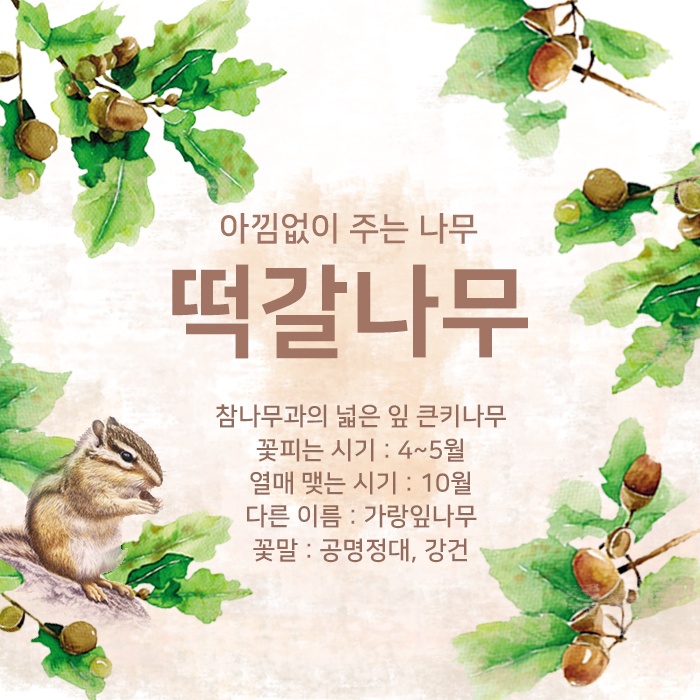
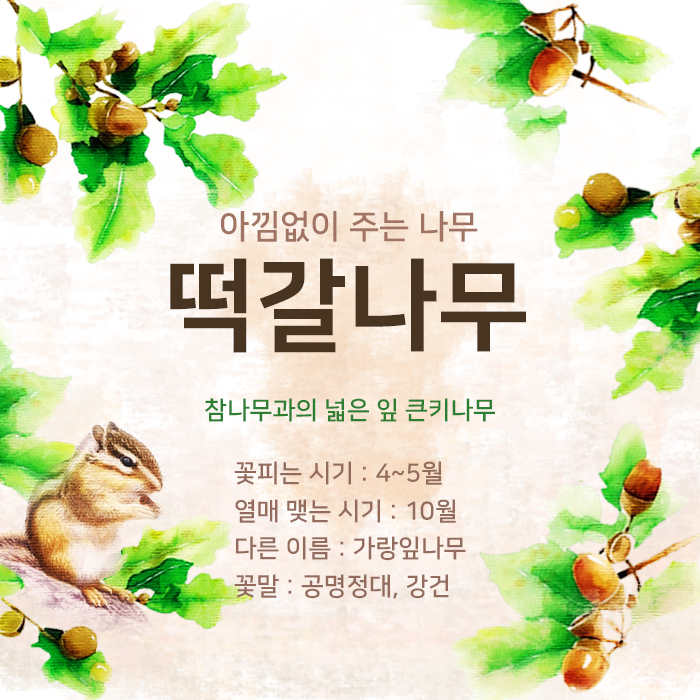
03

diff --git a/index_03.html b/index_03.html
@@ -18,8 +18,8 @@
                 data-description=""
             >
             <img 
-                src="images/03/03_02.jpg",
-                data-big="images/03/03_02.jpg"
+                src="images/03/03_02.gif",
+                data-big="images/03/03_02.gif"
                 data-title=""
                 data-description=""
             >
@@ -42,8 +42,8 @@
                 data-description=""
             >
             <img 
-                src="images/03/03_06.jpg",
-                data-big="images/03/03_06.jpg"
+                src="images/03/03_06.gif",
+                data-big="images/03/03_06.gif"
                 data-title=""
                 data-description=""
             >
@@ -74,13 +74,11 @@
                     동그란 것, 길쭉한 것, 반질반질한 것, 
                     투박한 것, 털모자 쓴 것, 빵모자 쓴 것…
                     그중 털모자를 쓴 동그란 도토리를 찾아 
-                    주위의 나무를 살펴보세요.
-                    </p>
+                    주위의 나무를 살펴보세요.</p>
             <p>나뭇잎이 크고, 가장자리가 물결 모양인 나무!
                     잎 뒷면에 짧은 털이 촘촘하게 나 있는 
-                    나무를 찾았나요?
-                    그 나무가 
-                    바로 떡갈나무랍니다.</p>
+                    나무를 찾았나요?</p>
+            <p>그 나무가 바로 떡갈나무랍니다.</p>
             <p>잎 뒷면에 털이 난 나무</p>
             <h3>떡을 싸서 먹는다고 떡갈나무</h3>
                 <p>옛날에는 어린 떡갈나무 잎에 
@@ -88,48 +86,42 @@
                         ‘떡갈나무’라는 이름이 붙여졌답니다.</p>
             <h3>떡갈나무 생김새</h3>
                 <p>꽃 - 4~5월에 잎과 함께 펴요.
-                        암꽃과 수꽃이 한 나무에 피는 
-                        암수한그루에요.
-                        </p>
+                    암꽃과 수꽃이 한 나무에 피는 
+                    암수한그루에요.</p>
                 <p>잎 - 참나무 중 잎이 가장 크고 두꺼워요.
-                        잎자루가 짧고 잎 가장자리는 
-                        큰 물결 모양이에요.
-                        뒷면에는 갈색의 털이 촘촘하게 나 있어요.
-                        </p>
+                    잎자루가 짧고 잎 가장자리는 
+                    큰 물결 모양이에요.
+                    뒷면에는 갈색의 털이 촘촘하게 나 있어요.</p>
                 <p>열매 - 열매인 도토리는 10월에 영글어요.
-                        열매를 감싼 깍쟁이는 짙은 갈색으로 
-                        줄 모양의 포에 싸여 있어요.</p>
+                    열매를 감싼 깍쟁이는 짙은 갈색으로 
+                    줄 모양의 포에 싸여 있어요.</p>
             <h3>다람쥐가 좋아하는
                     떡갈나무 열매</h3>
                 <p>떡갈나무는 산기슭 양지바른 곳에서 자라는 
-                        우리나라 토종나무에요. 
-                        참나무 중에서 잎이 가장 커요.
-                        열매인 도토리를 다람쥐나 청설모가 좋아해요.
-                        다람쥐는 겨울철 식량을 위해
-                        도토리를 땅속 이곳저곳에 묻어요.
-                        그런데 자신이 어디에 도토리를 묻었는지 
-                        거의 기억하지 못한대요.
-                        </p>
+                    우리나라 토종나무에요. 
+                    참나무 중에서 잎이 가장 커요.
+                    열매인 도토리를 다람쥐나 청설모가 좋아해요.
+                    다람쥐는 겨울철 식량을 위해
+                    도토리를 땅속 이곳저곳에 묻어요.
+                    그런데 자신이 어디에 도토리를 묻었는지 
+                    거의 기억하지 못한대요.</p>
             <h3>떡갈나무를
                     심는 다람쥐</h3>
                 <p>다람쥐가 찾지 못한 도토리는 
-                        땅속에 묻혀있다가 적당한 날씨가 
-                        되었을 때 싹을 틔운답니다.
-                        다람쥐의 건망증 덕분에 떡갈나무를 비롯한 
-                        많은 나무가 새롭게 태어나는 것이지요.
-                        그래서인지 산을 가꿀 때 떡갈나무는 
-                        따로 심지 않는다고 해요.
-                        </p>
+                    땅속에 묻혀있다가 적당한 날씨가 
+                    되었을 때 싹을 틔운답니다.
+                    다람쥐의 건망증 덕분에 떡갈나무를 비롯한 
+                    많은 나무가 새롭게 태어나는 것이지요.
+                    그래서인지 산을 가꿀 때 떡갈나무는 
+                    따로 심지 않는다고 해요.</p>
             <h3>아낌없이 주는 떡갈나무</h3>
                 <p>떡갈나무는 넓고 큰 잎처럼 넉넉한 마음을 가졌답니다.
-                        열매는 다람쥐, 청설모 그리고 사람들에게
-                        나무진은 장수풍뎅이와 사슴벌레에게 
-                        잎은 나방 애벌레에게
-                        줄기는 꽃무지의 애벌레에게
-                        자신의 모든 것을 아낌없이 내어주지요.
-                        떡갈나무의 베푸는 마음이 우리 숲을 풍요롭게 한답니다.
-                        
-                        </p>
+                    열매는 다람쥐, 청설모 그리고 사람들에게
+                    나무진은 장수풍뎅이와 사슴벌레에게 
+                    잎은 나방 애벌레에게
+                    줄기는 꽃무지의 애벌레에게
+                    자신의 모든 것을 아낌없이 내어주지요.
+                    떡갈나무의 베푸는 마음이 우리 숲을 풍요롭게 한답니다.</p>
         </div>
     </div>
 
